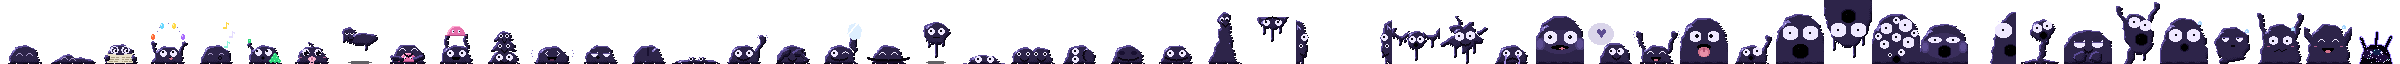
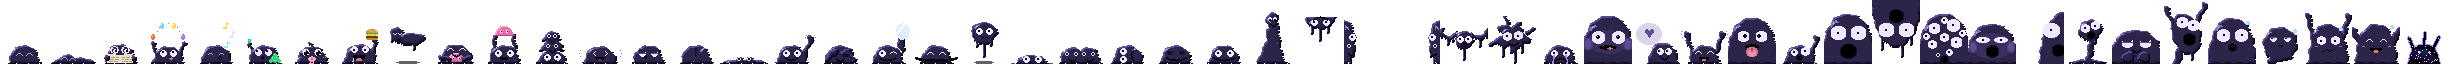
The Hall of Reflections: one of the calm looks is caught snacking: a burger held up high, about to go in whole, its eyes on you, a drool

Changed region(s): [[0.0, 0.0, 1.0, 1.0], [0.0625, 0.3438, 0.0938, 0.4688], [0.0625, 0.5312, 0.0938, 0.625]]

diff --git a/MirrorTrial.js b/MirrorTrial.js
@@ -101,13 +101,13 @@ class MirrorTrial extends Phaser.Scene {
         ['LOOKING FROM ABOVE', 'Hold TAB to step out of your own eyes, up behind yourself: you, the panes round you with your chalk and marks, your slimes. You never see them this way, except where a sentry pings, and while you\'re out of your eyes nothing watches them. W S step, A D turn, ESC leaves the hall.'],
     ];
     // their looks (mt_twin, a strip: scratchpad art states.mjs --game): asleep; seen from afar, by their mood: calm (reading in
-    // glasses, juggling your gems, whistling, counting glorps, a baby with a pacifier, lounging...), playful (waving, peekaboo, copying you...), hunting
+    // glasses, juggling your gems, whistling, counting glorps, a baby with a pacifier, caught snacking on a burger, lounging...), playful (waving, peekaboo, copying you...), hunting
     // (staring, up the walls, splatted on one, weeping...); right behind a pane between you, up against the glass
     // (face squashed on it, a heart in its breath, waving in, licking it, knocking); two away (your face, dropped down, peeking
     // in...); one away, caught in time just before it got you (mid-reach, sneaking, mid-BOO, going for a hug, BOO); (a prank's
     // face is its own drawing, mt_face); TRUE, what they really are (rare, and only ever seen straight on); CORRIDOR, the ones holding a corridor's walls (only where it runs toward you); WALLED, the ones
     // flat on the wall right behind them (only where there is one)
-    static POSES = { SLEEP: [0, 1], calm: [2, 14], play: [15, 23], hunt: [24, 31], GLASS: [32, 36], NEAR: [37, 43], CLOSE: [44, 48], TRUE: 49, CORRIDOR: [27, 28, 29], WALLED: [30] };
+    static POSES = { SLEEP: [0, 1], calm: [2, 15], play: [16, 24], hunt: [25, 32], GLASS: [33, 37], NEAR: [38, 44], CLOSE: [45, 49], TRUE: 50, CORRIDOR: [28, 29, 30], WALLED: [31] };
     static TEX = ['mt_wall', 'mt_glass', 'mt_mirror', 'mt_broken', 'mt_self', 'mt_twin', 'mt_shard', 'mt_pickup', 'mt_decoy', 'mt_mark_m', 'mt_mark_g', 'mt_sentry', 'mt_glorp', 'mt_items'];
     static BAYER = [0, 8, 2, 10, 12, 4, 14, 6, 3, 11, 1, 9, 15, 7, 13, 5].map(v => (v + 0.5) / 16 - 0.5);
 
